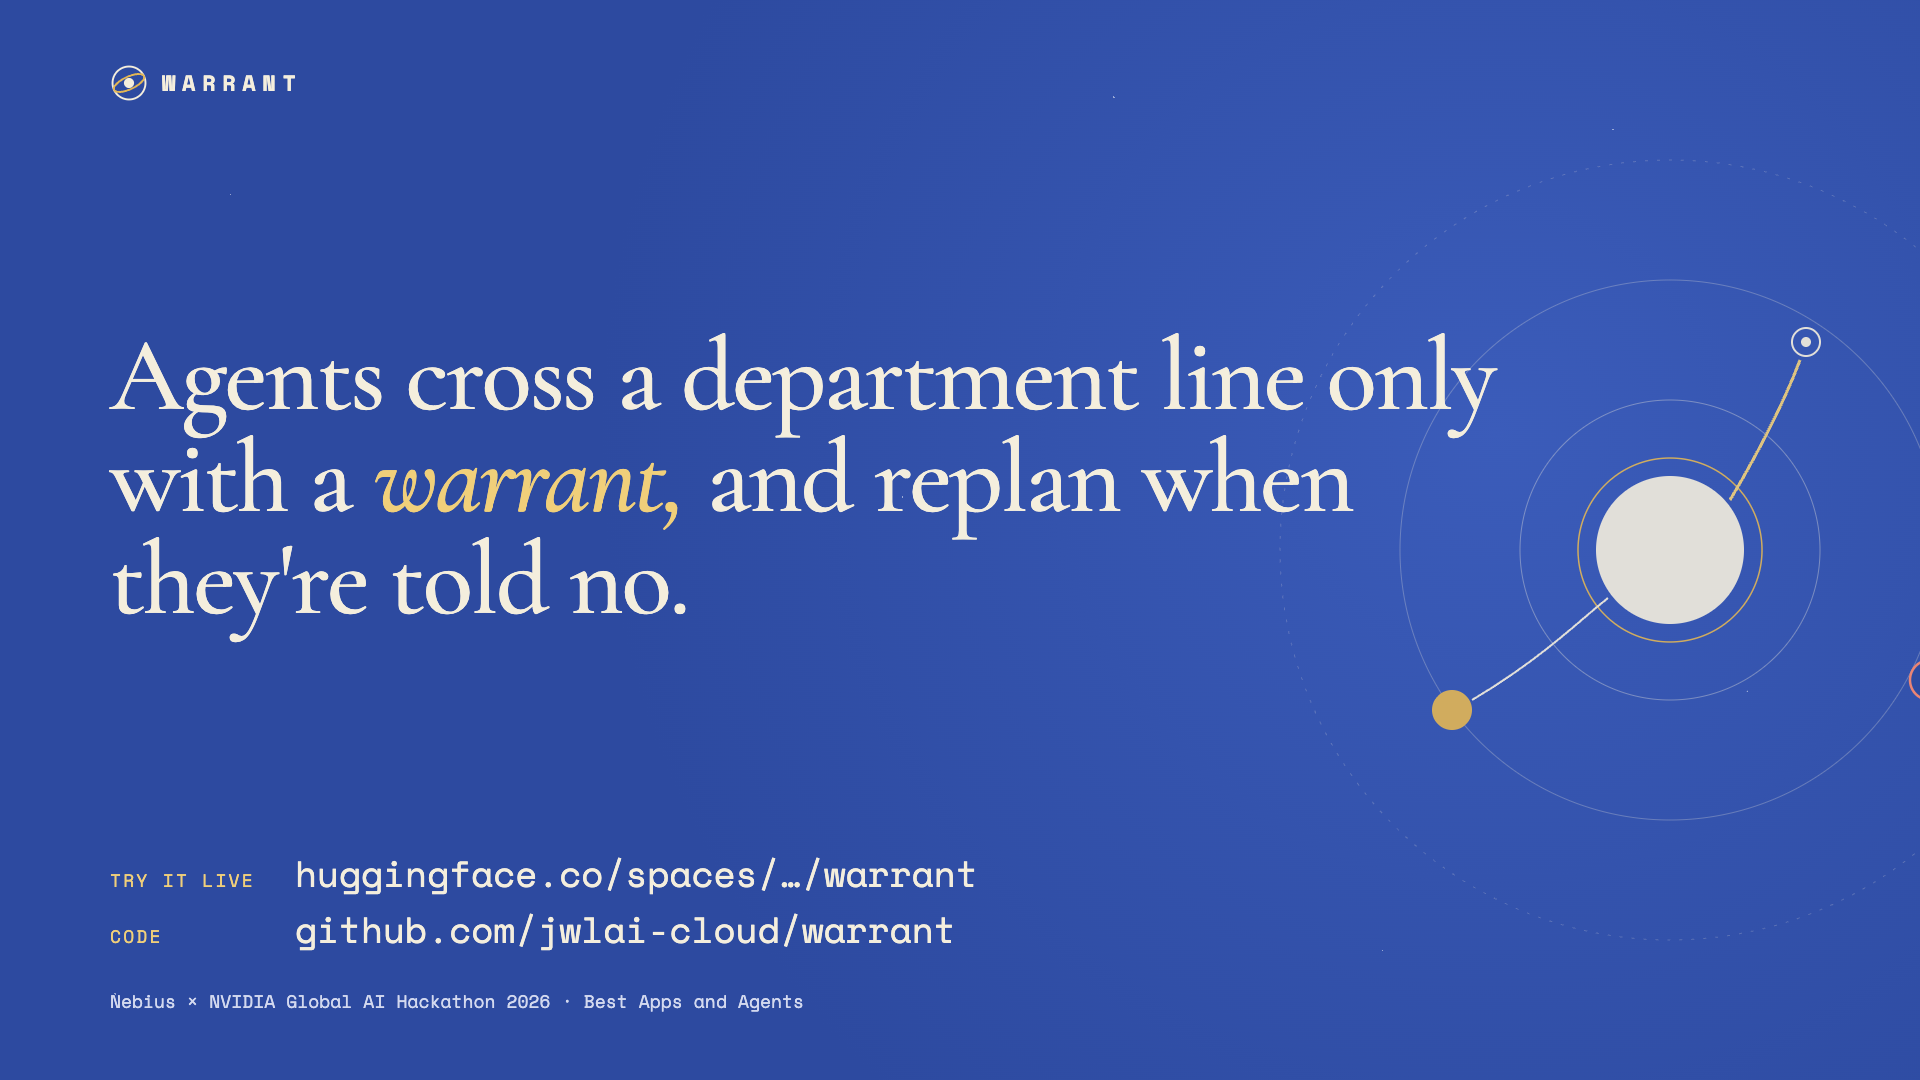
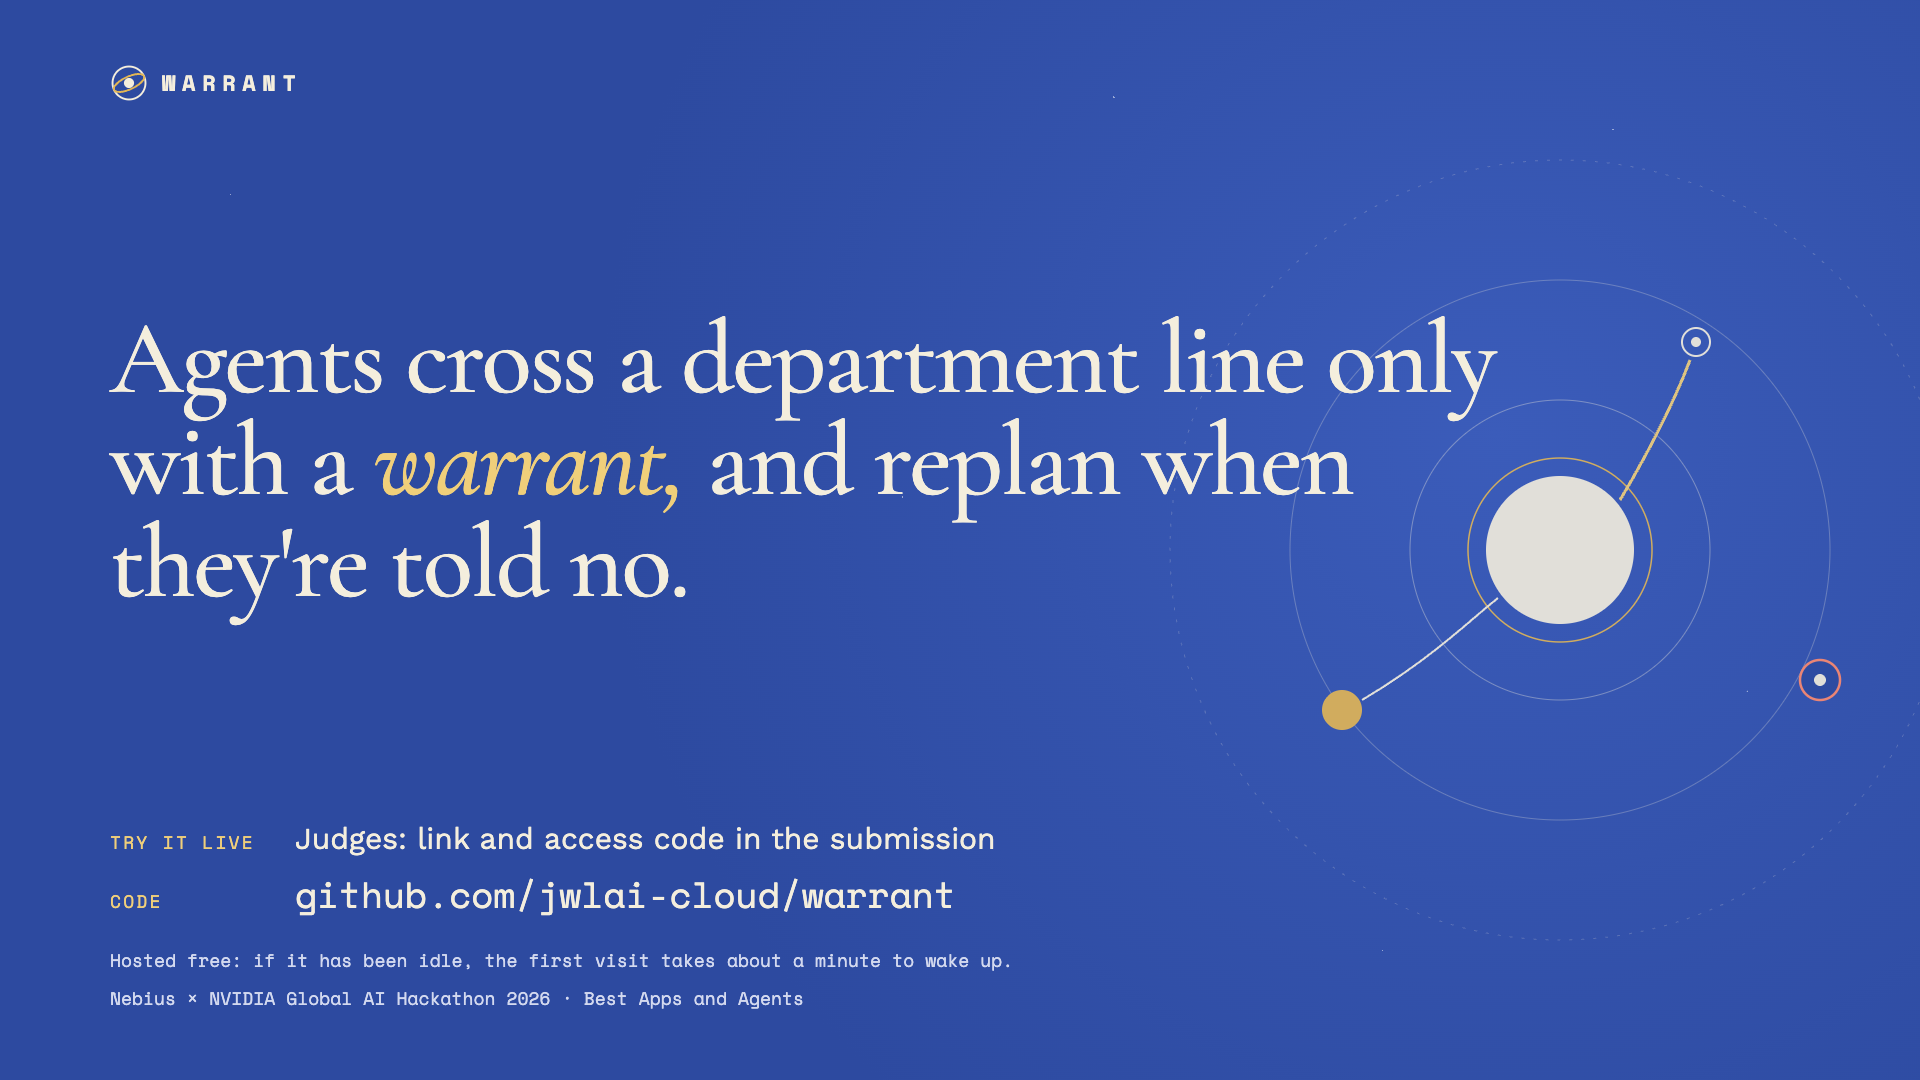
Lock the hosted site to judges; no public live link anywhere
With WARRANT_JUDGE_KEY set, every page and API call now needs the code,
not just the ones that spend tokens. A visitor without it gets a small
access page; opening any page with ?key= once sets a cookie (SameSite=None
behind HTTPS, so it also works inside the Space's iframe). /healthz stays
open. The rules allow a private site when credentials are in the testing
instructions, so the link and the code live only there.

The video's close card drops the URL ("Judges: link and access code in
the submission") and says the free host takes about a minute to wake when
idle. The README says the same.

Claude-Session: https://claude.ai/code/session_01A95nU57UXnedAk6vL4YipQ

diff --git a/src/warrant/api/static/gate.html b/src/warrant/api/static/gate.html
@@ -1,0 +1,29 @@
+<!doctype html>
+<html lang="en"><head><meta charset="utf-8"><meta name="viewport" content="width=device-width,initial-scale=1">
+<title>WARRANT · judge access</title>
+<link rel="stylesheet" href="https://fonts.googleapis.com/css2?family=Cormorant+Garamond:wght@500;600&family=Work+Sans:wght@400;500;600&family=Space+Mono&display=swap">
+<style>
+  body{margin:0;min-height:100vh;display:grid;place-items:center;padding:16px;box-sizing:border-box;
+    background:radial-gradient(circle at 70% 40%,#3B5CBA 0,#2D4AA0 55%);color:#F4EEDD;font:400 16px/1.5 "Work Sans",system-ui,sans-serif}
+  main{max-width:460px;width:100%}
+  .brand{font:700 15px/1 "Space Mono",monospace;letter-spacing:.3em}
+  h1{font:500 48px/1 "Cormorant Garamond",Georgia,serif;margin:28px 0 12px}
+  p{color:#E9E1CB;margin:0 0 24px}
+  form{display:flex;gap:10px;flex-wrap:wrap}
+  input{flex:1 1 220px;font:400 16px/1 "Space Mono",monospace;padding:14px 16px;border-radius:999px;border:1.5px solid #F4EEDD;background:transparent;color:#F4EEDD}
+  input::placeholder{color:#D3D9EF}
+  button{font:600 16px/1 "Work Sans",sans-serif;padding:14px 22px;border-radius:999px;border:0;background:#F4EEDD;color:#22398A;cursor:pointer}
+  :focus-visible{outline:2px solid #F0CF7A;outline-offset:3px}
+  [hidden]{display:none!important}
+  small{display:block;margin-top:18px;color:#D3D9EF;font:400 13px/1.5 "Space Mono",monospace}
+</style></head><body>
+<main>
+  <div class="brand">WARRANT</div>
+  <h1>Judge access</h1>
+  <p>This demo runs NVIDIA Nemotron live on Nebius Token Factory, so it is open to the hackathon judges only. The access code is in the submission's testing instructions.</p>
+  <form method="get"><input name="key" type="password" placeholder="Access code" aria-label="Access code" required autocomplete="off"><button type="submit">Open</button></form>
+  <small id="bad" hidden>That code didn't work. Check the testing instructions.</small>
+  <small>Code and video: github.com/jwlai-cloud/warrant</small>
+</main>
+<script>if (new URLSearchParams(location.search).has("key")) document.getElementById("bad").hidden = false;</script>
+</body></html>

diff --git a/demo/cards.html b/demo/cards.html
@@ -71,7 +71,8 @@
   .links{display:grid;grid-template-columns:auto 1fr;gap:20px 40px;align-items:baseline}
   .links span:nth-child(odd){font:400 18px/1 var(--mono);color:var(--gold-hi);letter-spacing:.12em}
   .links span:nth-child(even){font:400 36px/1 var(--mono);color:var(--cream)}
-  .foot{font:400 18px/1 var(--mono);color:var(--cream-dim)}
+  .foot{font:400 18px/1.3 var(--mono);color:var(--cream-dim)}
+  .links .soft{font:400 30px/1.2 var(--sans)!important}
 </style></head><body>
 
 <svg width="0" height="0" style="position:absolute"><symbol id="mark" viewBox="0 0 30 30"><circle cx="15" cy="15" r="13" fill="none" stroke="#F4EEDD" stroke-width="1.5"/><ellipse cx="15" cy="15" rx="13" ry="5" fill="none" stroke="#E2B655" stroke-width="1.5" transform="rotate(-25 15 15)"/><circle cx="15" cy="15" r="4" fill="#F4EEDD"/></symbol></svg>
@@ -122,10 +123,11 @@
   <h1>Agents cross a department line only with a <em>warrant,</em> and replan when they're told no.</h1>
   <div>
     <div class="links">
-      <span>TRY IT LIVE</span><span id="demoUrl">huggingface.co/spaces/…/warrant</span>
+      <span>TRY IT LIVE</span><span id="demoUrl" class="soft">Judges: link and access code in the submission</span>
       <span>CODE</span><span>github.com/jwlai-cloud/warrant</span>
     </div>
-    <p class="foot" style="margin:44px 0 0">Nebius × NVIDIA Global AI Hackathon 2026 · Best Apps and Agents</p>
+    <p class="foot" style="margin:36px 0 0">Hosted free: if it has been idle, the first visit takes about a minute to wake up.</p>
+    <p class="foot" style="margin:14px 0 0">Nebius × NVIDIA Global AI Hackathon 2026 · Best Apps and Agents</p>
   </div>
 </section>
 

diff --git a/src/warrant/api/app.py b/src/warrant/api/app.py
@@ -52,14 +52,18 @@ if _STATIC.exists():
     app.mount("/static", StaticFiles(directory=_STATIC), name="static")
 
 
-# Judge-only live runs. On the public deployment WARRANT_JUDGE_KEY is set, and
-# everything that can spend Token Factory credit - every POST under /v1/ (a
-# warrant request classifies with Nemotron, a grant request gets a Steward
-# Agent review) and the live stream - needs that key. Everyone else gets the
-# recorded live run in static/replay.json, played back in their own browser,
-# which spends nothing and touches no shared state. Unset (local dev, the video
-# capture) means open, exactly as before.
+# Judges only. On the hosted deployment WARRANT_JUDGE_KEY is set and the whole
+# site sits behind it: the link and the code go only in the Devpost testing
+# instructions (the rules allow a private site with credentials). Opening any
+# page with ?key=<code> once sets a cookie, so the console, the API and the
+# live stream all just work after that. Without it a visitor gets the access
+# page and nothing else; /healthz stays open for the host's health check.
+# If the day's live-run cap is used up, the console falls back to the recorded
+# live run in static/replay.json, played in the judge's own browser. Unset
+# (local dev, the video capture) means open, exactly as before.
 _REPLAY = "/static/replay.json"
+_COOKIE = "warrant_key"
+_OPEN = {"/healthz"}
 _live_runs: dict[str, int] = {}
 
 
@@ -73,18 +77,28 @@ def _is_judge(supplied: str | None) -> bool:
 
 
 def _supplied_key(request: Request) -> str | None:
-    # A header for fetch; a query parameter because EventSource cannot set one.
-    return request.headers.get("x-warrant-key") or request.query_params.get("key")
+    # A header for fetch, a query parameter for the first visit (and because
+    # EventSource cannot set a header), then the cookie that visit set.
+    return (request.headers.get("x-warrant-key") or request.query_params.get("key")
+            or request.cookies.get(_COOKIE))
 
 
 @app.middleware("http")
 async def judge_gate(request: Request, call_next):
-    p = request.url.path
-    spends = (request.method == "POST" and p.startswith("/v1/")) or p == "/v1/demo/stream"
-    if spends and not _is_judge(_supplied_key(request)):
-        return JSONResponse(status_code=401, content={
-            "error": "judge access code required", "replay": _REPLAY})
-    return await call_next(request)
+    if not _judge_key() or request.url.path in _OPEN:
+        return await call_next(request)
+    if not _is_judge(_supplied_key(request)):
+        if "text/html" in request.headers.get("accept", ""):
+            return FileResponse(_STATIC / "gate.html", status_code=401)
+        return JSONResponse(status_code=401, content={"error": "judge access code required"})
+    response = await call_next(request)
+    if request.query_params.get("key"):
+        # Behind HTTPS (the Space) the cookie is SameSite=None so it also works
+        # inside huggingface.co's iframe; plain http (local) cannot use None.
+        https = request.headers.get("x-forwarded-proto", request.url.scheme) == "https"
+        response.set_cookie(_COOKIE, request.query_params["key"], max_age=60 * 86400,
+                            httponly=True, secure=https, samesite="none" if https else "lax")
+    return response
 
 
 def _live_cap() -> int:

diff --git a/tests/test_judge_gate.py b/tests/test_judge_gate.py
@@ -1,8 +1,8 @@
 """The public deployment must not spend Token Factory credit for strangers.
 
-With WARRANT_JUDGE_KEY set, everything that can reach a model - every POST
-under /v1/ and the live stream - needs the key; reads stay open and the
-console falls back to the recorded replay. Unset, nothing changes.
+With WARRANT_JUDGE_KEY set the whole site is judges-only: every page and API
+call needs the key (header, ?key= once, then a cookie); a browser without it
+gets the access page. /healthz stays open. Unset, nothing changes.
 """
 from __future__ import annotations
 
@@ -37,7 +37,7 @@ def test_no_key_configured_means_open(app_mod, monkeypatch):
     assert c.get("/v1/access").json()["live"] is True
 
 
-def test_key_configured_blocks_spending_routes(app_mod, monkeypatch):
+def test_key_configured_locks_everything(app_mod, monkeypatch):
     monkeypatch.setenv("WARRANT_JUDGE_KEY", KEY)
     c = TestClient(app_mod.app)
     for r in (c.post("/v1/warrant", json=WARRANT),
@@ -45,14 +45,25 @@ def test_key_configured_blocks_spending_routes(app_mod, monkeypatch):
               c.post("/v1/demo/run"),
               c.post("/v1/demo/reset"),
               c.get("/v1/demo/stream"),
+              c.get("/v1/model"),
+              c.get("/v1/access"),
+              c.get("/static/replay.json"),
               c.post("/v1/warrant", json=WARRANT, headers={"X-Warrant-Key": "wrong"})):
         assert r.status_code == 401, r.text
-        assert r.json()["replay"] == "/static/replay.json"
-    assert c.get("/v1/access").json() == {"live": False, "key_required": True,
-                                          "runs_left_today": 40,
-                                          "replay": "/static/replay.json"}
-    # reads stay open: the replay console still shows the model
-    assert c.get("/v1/model").status_code == 200
+    page = c.get("/", headers={"accept": "text/html"})
+    assert page.status_code == 401 and "Judge access" in page.text
+    assert c.get("/healthz").status_code == 200
+
+
+def test_first_visit_sets_a_cookie(app_mod, monkeypatch):
+    monkeypatch.setenv("WARRANT_JUDGE_KEY", KEY)
+    c = TestClient(app_mod.app)
+    assert c.get(f"/?key={KEY}", headers={"accept": "text/html"}).status_code == 200
+    assert c.get("/v1/model").status_code == 200          # cookie, no key
+    assert c.get("/v1/access").json()["live"] is True
+    bad = TestClient(app_mod.app)
+    assert bad.get("/?key=wrong", headers={"accept": "text/html"}).status_code == 401
+    assert "warrant_key" not in bad.cookies
 
 
 def test_key_by_header_or_query(app_mod, monkeypatch):

diff --git a/README.md b/README.md
@@ -33,7 +33,11 @@ announcements on 24 September 2026; SAP's H2 release is the next one to watch.*
 
 ## What it does
 
-**Live demo:** _hosted URL added at submission_ · press **Run audit**.
+**Live demo:** for the hackathon judges only. The link and access code are in
+the Devpost submission's testing instructions, because every run spends real
+Token Factory credit. It is hosted on a free Hugging Face Space, so if it has
+been idle the first visit takes about a minute to wake up. Anyone can run it
+locally (below), or watch the demo video on the Devpost page.
 
 Northwind Group's Expense Auditor (Finance) audits 47 Q3 claims worth
 £11,179.80. Four of them are wrong — and each one can only be caught with data
